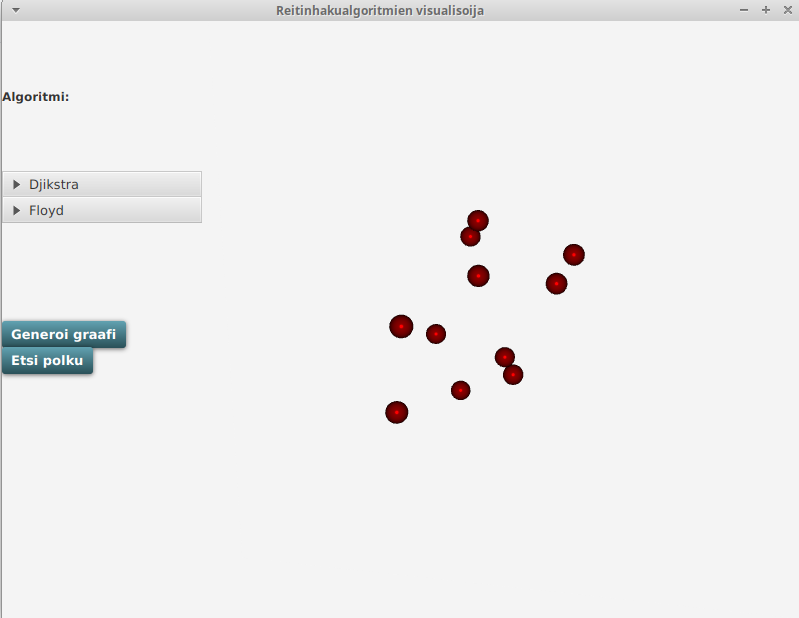
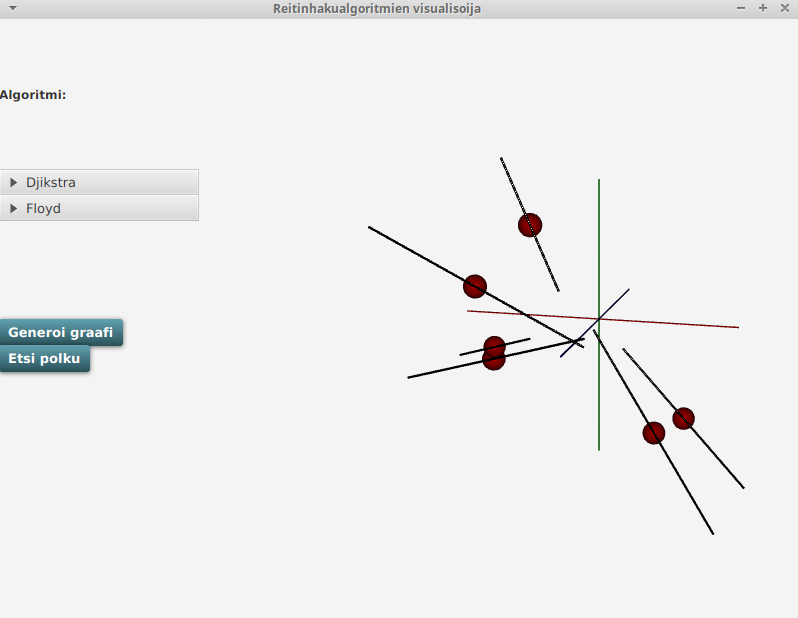
Refactoring for simplicity

diff --git a/src/main/java/com/akivaliaho/threed/RandomVertexBuilder.java b/src/main/java/com/akivaliaho/threed/RandomVertexBuilder.java
@@ -50,7 +50,7 @@ class RandomVertexBuilder extends RandomBuilder {
     }
 
     private DirectionalCylinder buildCylinderToPopped(Sphere to, Sphere from) {
-        DirectionalCylinder directionalCylinder = new DirectionalCylinder(3, 100);
+        DirectionalCylinder directionalCylinder = new DirectionalCylinder(1, 100);
         translateCylinderToFrom(from, directionalCylinder);
 
         rotateCylinderTowardsTo(to, directionalCylinder);
@@ -78,40 +78,8 @@ class RandomVertexBuilder extends RandomBuilder {
     }
 
     private double setPerpendularAndFindRotation(DirectionalCylinder directionalCylinder, Point2D toPointXY) {
-        Point2D yAxle = new Point2D(0, 1);
-        Point2D negativeYAxle = new Point2D(0, -1);
-
-        if (directionalCylinder.getTranslateY() < 0) {
-            if (directionalCylinder.getTranslateX() < 0) {
-                perpendularsmallerThanYAndX(directionalCylinder, negativeYAxle);
-                if (directionalCylinder.getTranslateX() < toPointXY.getX()) {
-                    if (directionalCylinder.getTranslateY() < toPointXY.getY()) {
-                        //Check angles in different quadrants
-                        findClosestAngleToYAxle(toPointXY);
-                        directionalCylinder.setRotate(toPointXY.angle(directionalCylinder.getTranslateX(), directionalCylinder.getTranslateY()));
-                    }
-                }
-            } else {
-                directionalCylinder.setRotate(180 + negativeYAxle.angle(directionalCylinder.getTranslateX(), directionalCylinder.getTranslateY()));
-            }
-        } else {
-            if (directionalCylinder.getTranslateX() < 0) {
-                double angle = yAxle.angle(directionalCylinder.getTranslateX(), directionalCylinder.getTranslateY());
-                directionalCylinder.setRotate(angle);
-            } else {
-                directionalCylinder.setRotate(180 - yAxle.angle(directionalCylinder.getTranslateX(), directionalCylinder.getTranslateY()));
-            }
-        }
-        return 0;
-    }
-
-    private void findClosestAngleToYAxle(Point2D toPointXY) {
-        //TODO
-    }
-
-    private void perpendularsmallerThanYAndX(DirectionalCylinder directionalCylinder, Point2D negativeYAxle) {
-        double angle = negativeYAxle.angle(directionalCylinder.getTranslateX(), directionalCylinder.getTranslateY());
-        directionalCylinder.setRotate(180 - angle);
+        ZRotator ZRotator = new ZRotator(directionalCylinder);
+        return ZRotator.findAngleTowardsPoint(toPointXY);
     }
 
 

diff --git a/src/main/java/com/akivaliaho/threed/ZRotator.java b/src/main/java/com/akivaliaho/threed/ZRotator.java
@@ -1,0 +1,65 @@
+package com.akivaliaho.threed;
+
+import javafx.geometry.Point2D;
+
+class ZRotator {
+    private final DirectionalCylinder directionalCylinder;
+    private final Point2D negativeYAxle;
+    private final Point2D yAxle;
+
+    ZRotator(DirectionalCylinder directionalCylinder) {
+        this.directionalCylinder = directionalCylinder;
+        yAxle = new Point2D(0, 1);
+        negativeYAxle = new Point2D(0, -1);
+    }
+
+    double findAngleTowardsPoint(Point2D toPointXY) {
+        setPerpendicularToAxle();
+        Quadrant quadrant = findQuadrant(toPointXY);
+        return 0;
+    }
+
+    private void setPerpendicularToAxle() {
+        Quadrant quadrant = findQuadrant(new Point2D(directionalCylinder.getTranslateX(), directionalCylinder.getTranslateY()));
+        bottomLeft(quadrant);
+        bottomRight(quadrant);
+        topLeft(quadrant);
+        topRight(quadrant);
+    }
+
+    private void bottomLeft(Quadrant quadrant) {
+        if (quadrant.getPointQuadrant() == Quadrant.QuadrantAlpha.BOTTOM_LEFT) {
+            perpendularsmallerThanYAndX(directionalCylinder, negativeYAxle);
+        }
+    }
+
+    private void perpendularsmallerThanYAndX(DirectionalCylinder directionalCylinder, Point2D negativeYAxle) {
+        double angle = negativeYAxle.angle(directionalCylinder.getTranslateX(), directionalCylinder.getTranslateY());
+        directionalCylinder.setRotate(180 - angle);
+    }
+
+    private void bottomRight(Quadrant quadrant) {
+        if (quadrant.getPointQuadrant() == Quadrant.QuadrantAlpha.BOTTOM_RIGHT) {
+            directionalCylinder.setRotate(180 + negativeYAxle.angle(directionalCylinder.getTranslateX(), directionalCylinder.getTranslateY()));
+        }
+    }
+
+    private void topLeft(Quadrant quadrant) {
+        if (quadrant.getPointQuadrant() == Quadrant.QuadrantAlpha.TOP_LEFT) {
+            double angle = yAxle.angle(directionalCylinder.getTranslateX(), directionalCylinder.getTranslateY());
+            directionalCylinder.setRotate(angle);
+        }
+    }
+
+    private void topRight(Quadrant quadrant) {
+        if (quadrant.getPointQuadrant() == Quadrant.QuadrantAlpha.TOP_RIGHT) {
+            directionalCylinder.setRotate(180 - yAxle.angle(directionalCylinder.getTranslateX(), directionalCylinder.getTranslateY()));
+        }
+    }
+
+    private Quadrant findQuadrant(Point2D toPointXY) {
+        return new Quadrant(toPointXY);
+    }
+
+
+}

diff --git a/src/main/java/com/akivaliaho/threed/Axles.java b/src/main/java/com/akivaliaho/threed/Axles.java
@@ -1,0 +1,80 @@
+package com.akivaliaho.threed;
+
+import javafx.geometry.Point2D;
+
+public class Axles {
+    private final Point2D pointXY;
+    private double yAxleAngle;
+    private double negativeYAxleAngle;
+    private double xAxleAngle;
+    private double negativeXAxleAngle;
+    private Point2D xAXle;
+    private Point2D yAxle;
+    private Point2D negativeYAxle;
+    private Point2D negativeXAxle;
+
+    Axles(Point2D pointXY) {
+        this.pointXY = pointXY;
+    }
+
+    public double getyAxleAngle() {
+        return yAxleAngle;
+    }
+
+    public void setyAxleAngle(double yAxleAngle) {
+        this.yAxleAngle = yAxleAngle;
+    }
+
+    public double getNegativeYAxleAngle() {
+        return negativeYAxleAngle;
+    }
+
+    public void setNegativeYAxleAngle(double negativeYAxleAngle) {
+        this.negativeYAxleAngle = negativeYAxleAngle;
+    }
+
+    public double getxAxleAngle() {
+        return xAxleAngle;
+    }
+
+    public void setxAxleAngle(double xAxleAngle) {
+        this.xAxleAngle = xAxleAngle;
+    }
+
+    public double getNegativeXAxleAngle() {
+        return negativeXAxleAngle;
+    }
+
+    public void setNegativeXAxleAngle(double negativeXAxleAngle) {
+        this.negativeXAxleAngle = negativeXAxleAngle;
+    }
+
+    Axles findAngleToAxles() {
+        yAxle = new Point2D(0, 1);
+        xAXle = new Point2D(1, 0);
+        negativeYAxle = new Point2D(0, -1);
+        negativeXAxle = new Point2D(-1, 0);
+
+        yAxleAngle = yAxle.angle(pointXY.getX(), pointXY.getY());
+        negativeYAxleAngle = negativeYAxle.angle(pointXY.getX(), pointXY.getY());
+        xAxleAngle = xAXle.angle(pointXY.getX(), pointXY.getY());
+        negativeXAxleAngle = negativeXAxle.angle(pointXY.getX(), pointXY.getY());
+        return this;
+    }
+
+    int getQuadrant() {
+        if (pointXY.getY() < 0) {
+            if (pointXY.getX() < 0) {
+                return 3;
+            }
+            return 4;
+        } else if (pointXY.getX() < 0) {
+            return 2;
+        } else {
+            return 1;
+        }
+    }
+}
+
+
+    

diff --git a/src/main/java/com/akivaliaho/threed/Quadrant.java b/src/main/java/com/akivaliaho/threed/Quadrant.java
@@ -1,0 +1,30 @@
+package com.akivaliaho.threed;
+
+import javafx.geometry.Point2D;
+
+class Quadrant {
+
+    private QuadrantAlpha pointQuadrant;
+
+    Quadrant(Point2D toPointXY) {
+        if (toPointXY.getY() < 0) {
+            if (toPointXY.getX() < 0) {
+                pointQuadrant = QuadrantAlpha.BOTTOM_LEFT;
+            } else {
+                pointQuadrant = QuadrantAlpha.BOTTOM_RIGHT;
+            }
+        } else if (toPointXY.getX() < 0) {
+            pointQuadrant = QuadrantAlpha.TOP_LEFT;
+        } else {
+            pointQuadrant = QuadrantAlpha.TOP_RIGHT;
+        }
+    }
+
+    public QuadrantAlpha getPointQuadrant() {
+        return pointQuadrant;
+    }
+
+    enum QuadrantAlpha {
+        BOTTOM_RIGHT, TOP_LEFT, TOP_RIGHT, BOTTOM_LEFT
+    }
+}

diff --git a/src/main/java/com/akivaliaho/threed/RandomBallBuilder.java b/src/main/java/com/akivaliaho/threed/RandomBallBuilder.java
@@ -19,7 +19,6 @@ class RandomBallBuilder extends RandomBuilder {
 
         List<Sphere> sphereList = new ArrayList<>();
         int i = nextInt(10) + 2;
-        i = 2;
         for (int j = 0; j < i; j++) {
             Sphere sphere = new Sphere(10);
             findNonCollidingPlace(sphere, sphereList);

diff --git a/src/main/java/com/akivaliaho/threed/Axle.java b/src/main/java/com/akivaliaho/threed/Axle.java
@@ -1,0 +1,5 @@
+package com.akivaliaho.threed;
+
+public enum Axle {
+    NEGATIVE_Y_AXLE, Y_AXLE
+}
